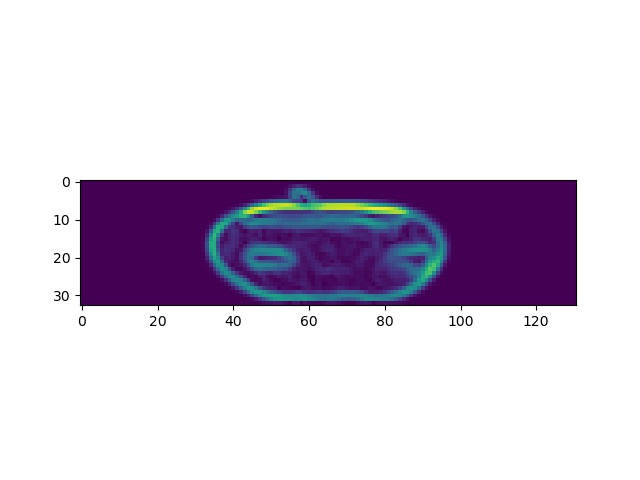
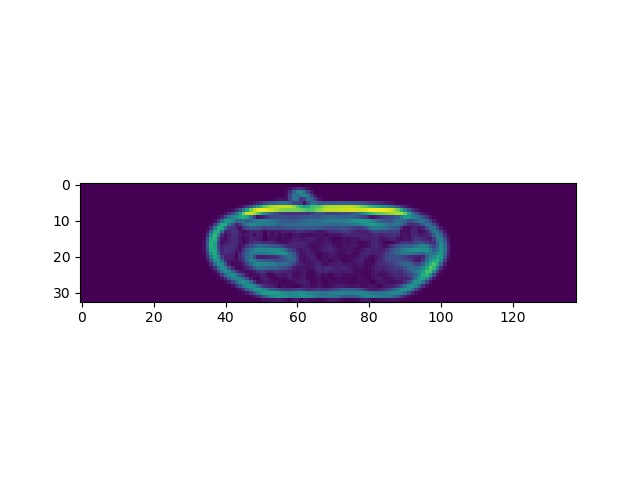
adding light and dark edges

diff --git a/combined.py b/combined.py
@@ -4,17 +4,18 @@ import numpy as np
 import matplotlib.pyplot as plt
 from scipy.interpolate import interp1d
 
-# VS code characters are roughly 38:17 height to width ratio
-char_h_to_w_ratio = 38.0 / 17.0
+# VS code characters are roughly 40:17 height to width ratio
+char_h_to_w_ratio = 40.0 / 17.0
 
 dark_to_light1 = "?$@B\%8&#*oahkbdpqwmzcvunxrjft+~<>i!lI;:,\"^`\'. "[::-1]
-dark_to_light2 = " .\':;o*O#@"[::-1]
+dark_to_light2 = " .\':;o*O#@"
 dark_to_light3 = "@#B&$\%?*o+~;:\"\'`. "[::-1]
 
-edges = "|/—\\"
-deg_increment = 180 / len(edges)
+dark_edges = "|/—\\"
+light_edges = "I/=\\"
+deg_increment = 180 / len(dark_edges)
 
-chars_used = dark_to_light3
+chars_used = dark_to_light2
 img_name = "apple.jpg"
 
 def int_to_ascii(i):
@@ -50,15 +51,17 @@ plt.savefig('imgs/sobel_' + img_name)
 #plt.imshow(orientation)
 #plt.savefig('imgs/sobel_dog_deg.jpg')
 
-def map_edges_to_ascii(magnitude, orientation):
+def map_edges_to_ascii(image, magnitude, orientation):
   if (magnitude > 2500):
-    edge_num = round(orientation / deg_increment) % len(edges)
-    return edges[edge_num]
+    edge_num = round(orientation / deg_increment) % len(light_edges)
+    if image > 15:
+      return light_edges[edge_num]
+    return dark_edges[edge_num]
   else:
     return " "
 
 edge_mapping = np.vectorize(map_edges_to_ascii)
-edge_ascii = edge_mapping(magnitude, orientation)
+edge_ascii = edge_mapping(image, magnitude, orientation)
 ascii_image = ascii_mapping(mapped_image)
 
 # Override ascii in the original mapping with non-space characters in the edge image
